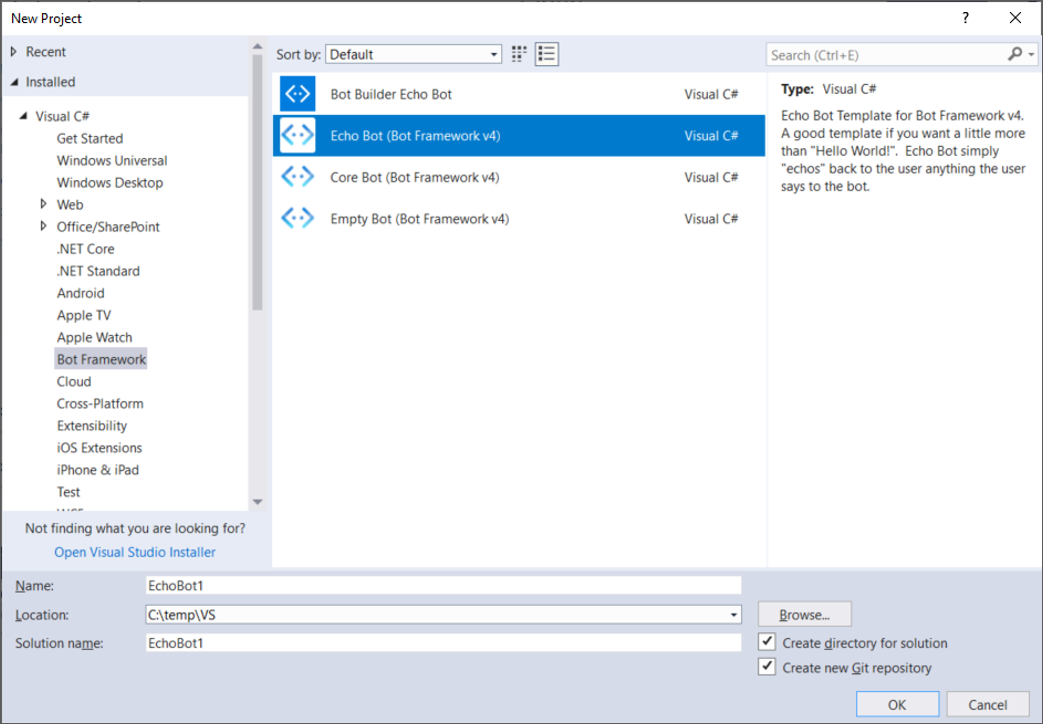
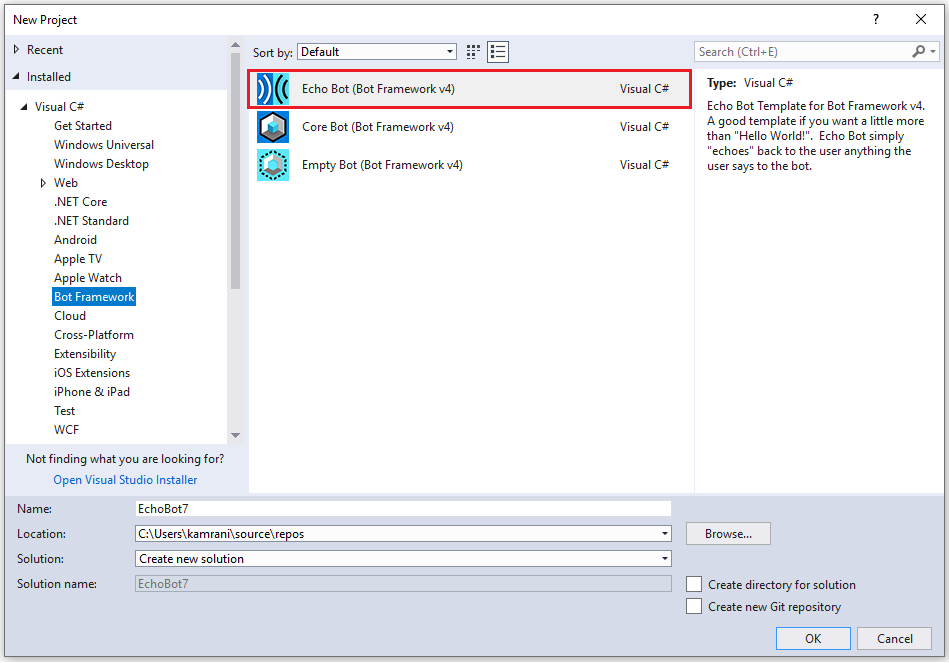
Quickstart (#1484)

Changed region(s): [[0.0, 0.0, 1.0, 1.0]]

diff --git a/articles/includes/quickstart-dotnet.md b/articles/includes/quickstart-dotnet.md
@@ -7,7 +7,7 @@
 ## Create a bot
 Install BotBuilderVSIX.vsix template that you downloaded in the prerequisites section.
 
-In Visual Studio, create a new bot project using the **Bot Framework Echo Bot** V4 template.
+In Visual Studio, create a new bot project using the **Echo Bot (Bot Framework v4)** template.
 
 ![Visual Studio project](~/media/azure-bot-quickstarts/bot-builder-dotnet-project.png)
 
